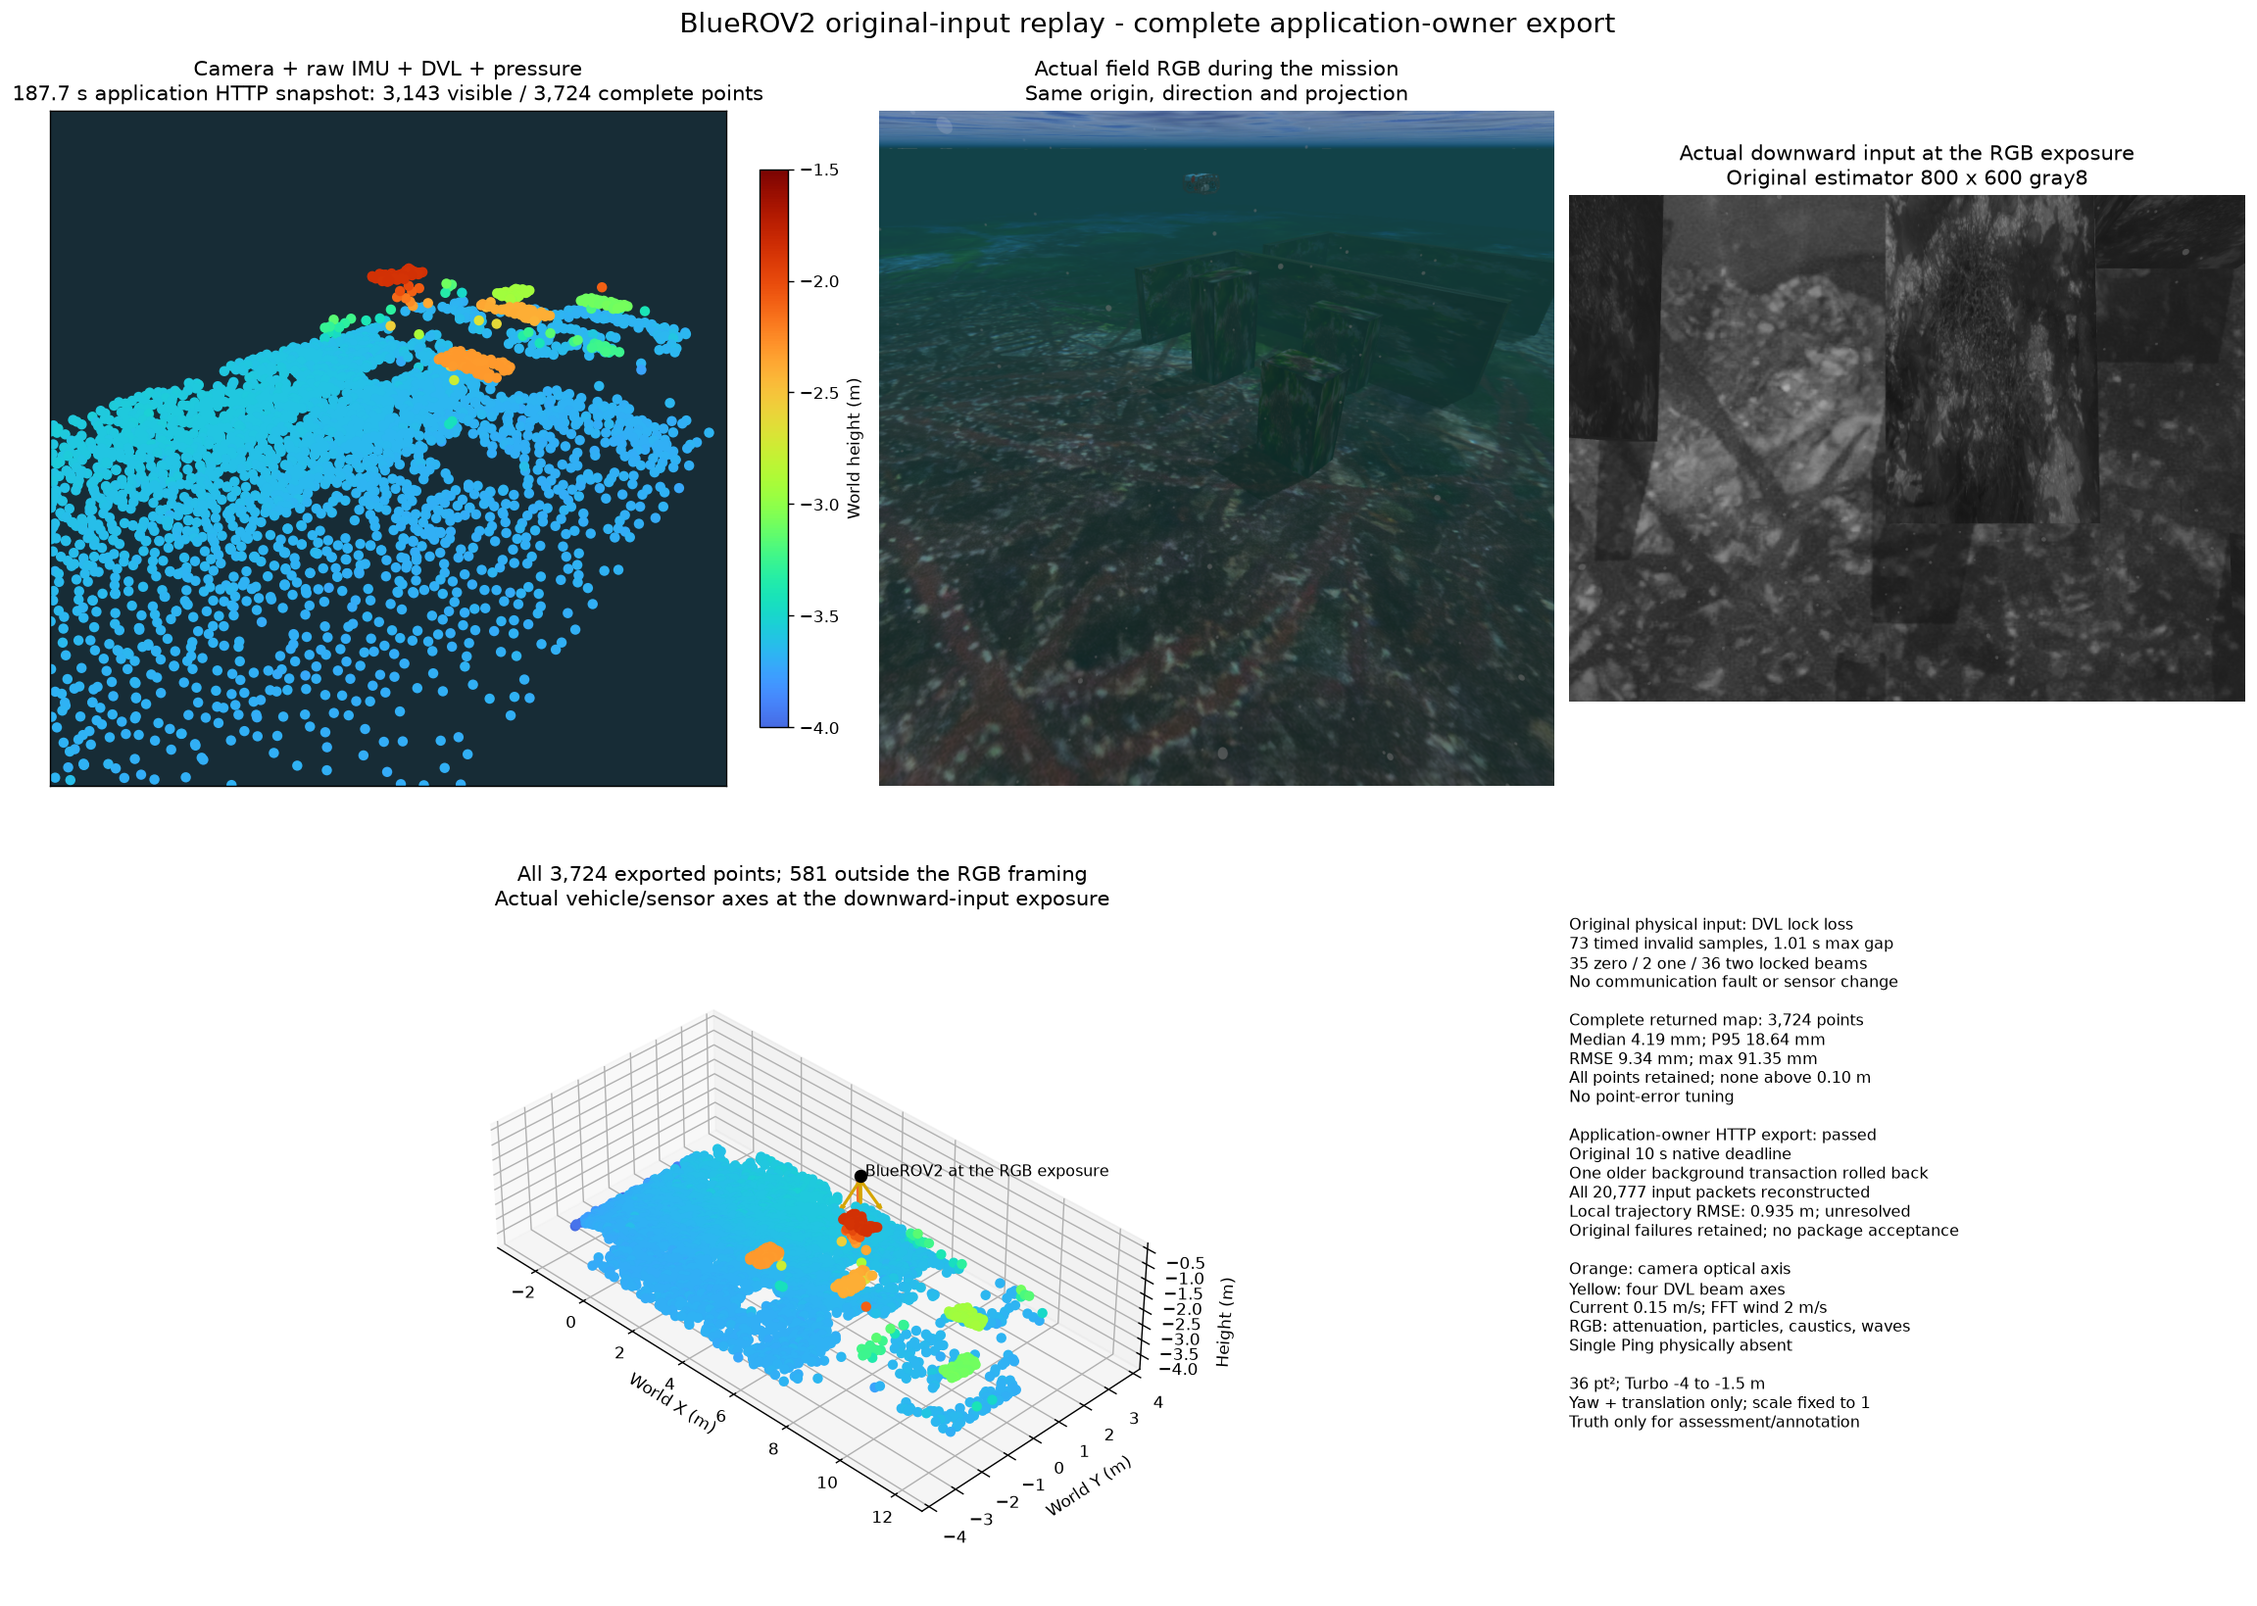
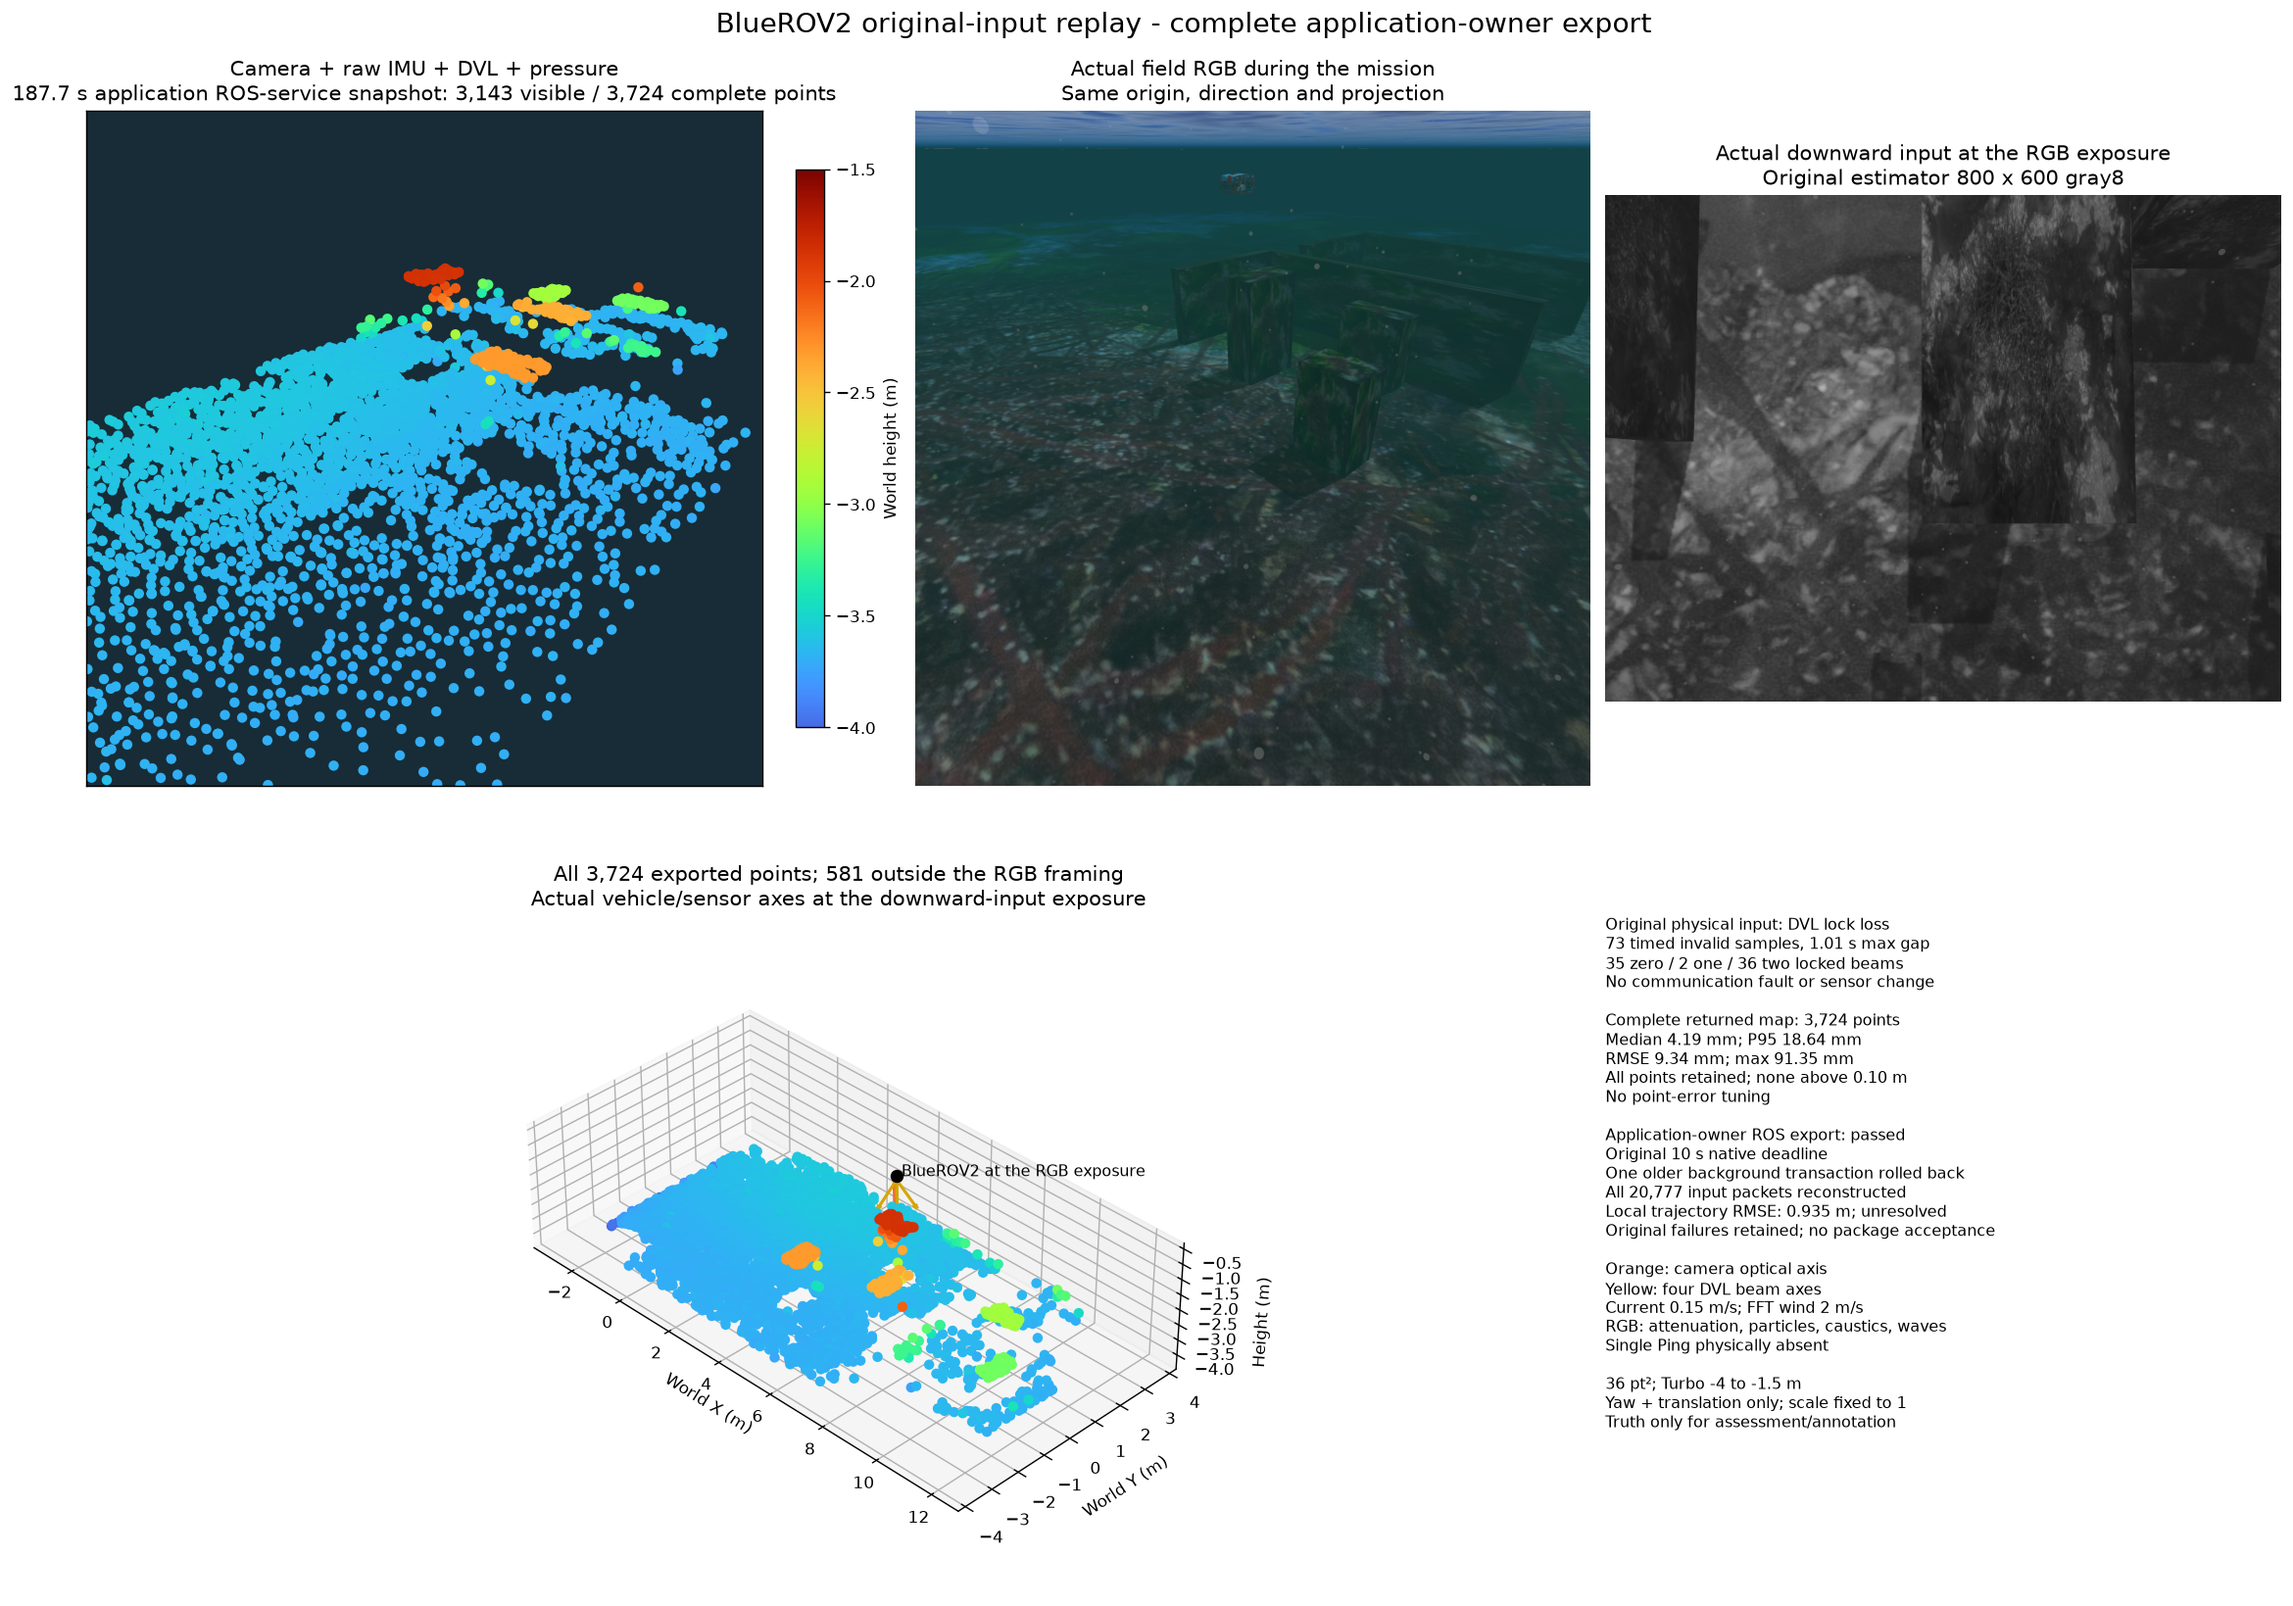
Clarify ROS service validation scope separately from browser HTTP

diff --git a/docs/diagnostics/map-request-priority-20261108/README.ko.md b/docs/diagnostics/map-request-priority-20261108/README.ko.md
@@ -17,11 +17,11 @@
 실패했습니다. 해당 판정과 별도 네이티브 감사 결과를 구분해 보존합니다.
 
 앱 ROS 소유자는 같은 실제 카메라·IMU·DVL·수압 기록을 1배속으로
-재생하며 Ping은 없습니다. HTTP 다운로드는 187.7초의 전체 3,724점과
+재생하며 Ping은 없습니다. ROS 내보내기 서비스는 187.7초의 전체 3,724점과
 지도 리비전 219를 반환합니다. 백그라운드 처리 1개를 되돌렸습니다.
 네이티브 상태 2,133개를 모두 남기며 실제 DVL 잠금 상실 중 848개,
 최소 2,570점과 같은 워커·좌표 프레임을 유지합니다. 오류·지도 오류는
-없습니다. 유실 중 HTTP 다운로드 요청은 하지 않았습니다.
+없습니다. 브라우저 HTTP 경로나 유실 중 내보내기 요청은 검증하지 않았습니다.
 
 전체 점의 표면 오차 중앙값/P95/RMSE/최대는
 4.190/18.645/9.345/91.354mm이며 10cm 초과 점은 없습니다.

diff --git a/docs/diagnostics/map-request-priority-20261108/README.md b/docs/diagnostics/map-request-priority-20261108/README.md
@@ -17,11 +17,11 @@ existing native 10-second deadline. Its wrapper subsequently fails a JSON key-ty
 comparison; that verdict and the independent native audit remain separate.
 
 The application ROS owner replays the same physical camera/IMU/DVL/pressure
-record at 1x, with Ping absent. Complete HTTP export returns 3,724 points at
+record at 1x, with Ping absent. The ROS export service returns 3,724 points at
 187.7 seconds, through mapping revision 219. One background transaction is
 rolled back. All 2,133 native states remain; 848 occur during physical DVL lock
 loss, with at least 2,570 landmarks and the same worker/frame. No faults or map
-errors are observed. A during-loss HTTP export request was not made.
+errors are observed. No browser HTTP route or during-loss export request was exercised.
 
 All-point surface median/P95/RMSE/maximum are 4.190/18.645/9.345/91.354 mm.
 No point exceeds 10 cm. Continuous local position RMSE/maximum remain
